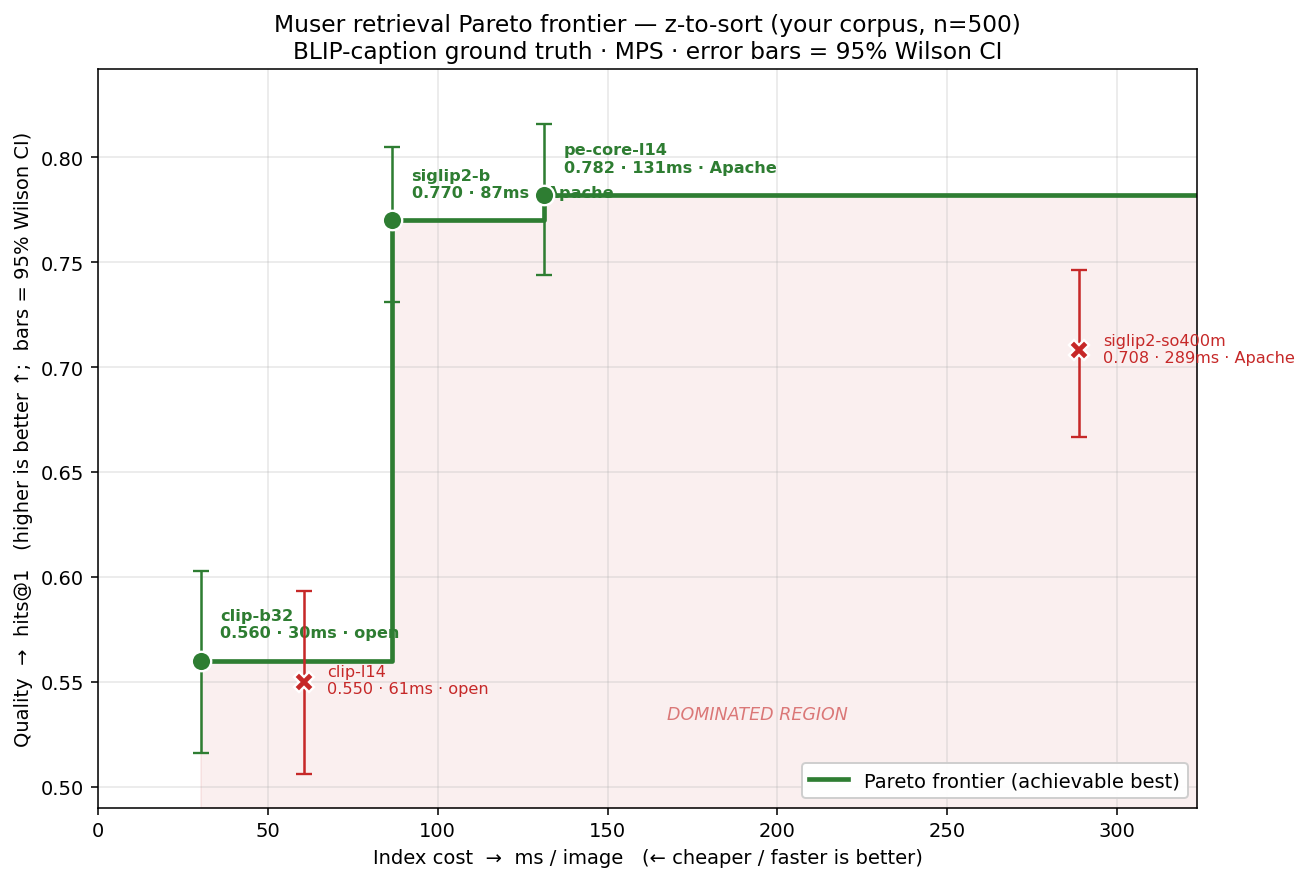
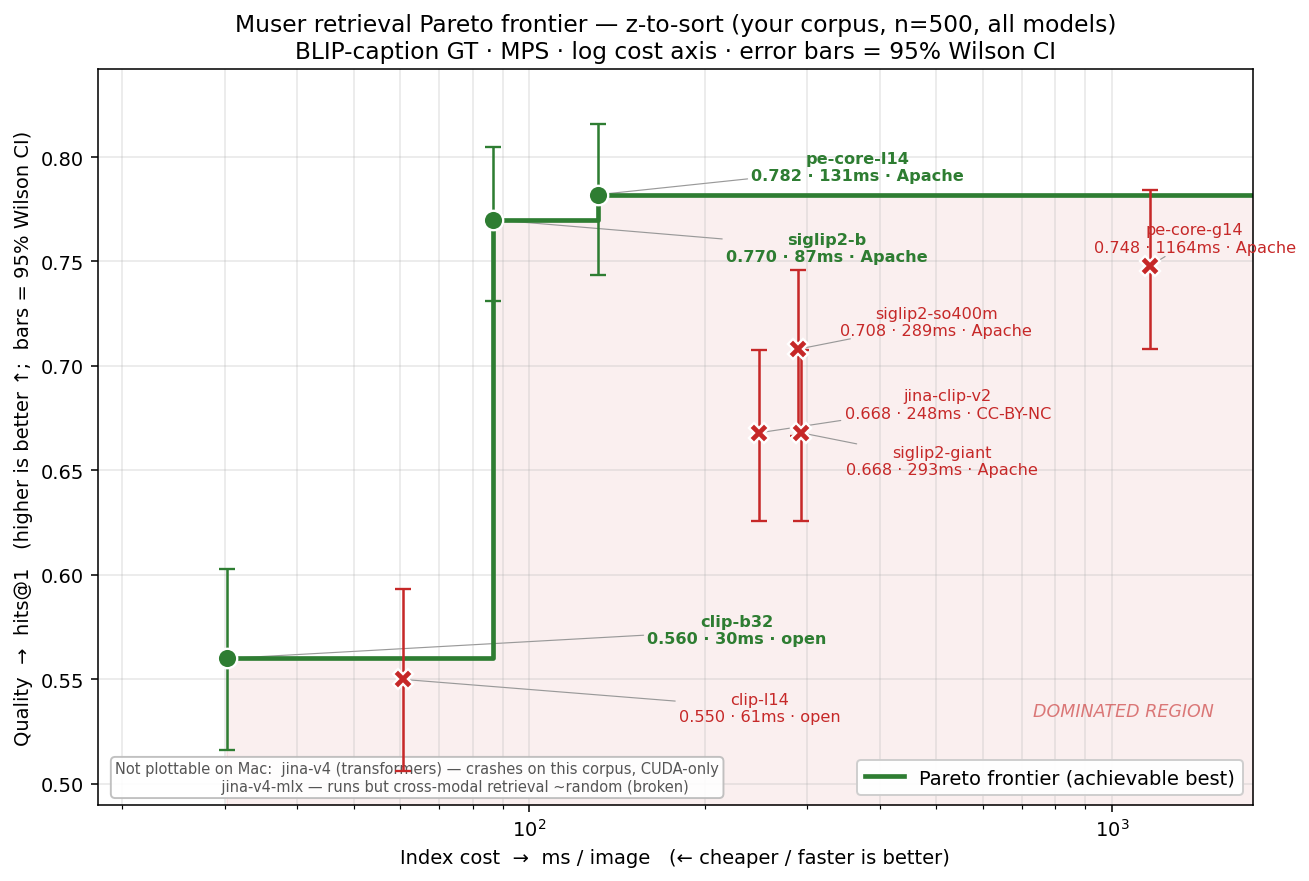
Plot all tested models on the z-to-sort frontier (incl. dominated giants/jina); log-x + adjustText labels
Ran pe-core-g14, siglip2-giant, jina-clip-v2 on the same n=500 domain eval so all 8
Mac-runnable models sit on one comparable axis. Diagram now shows every tested point
with the frontier (clip-b32/siglip2-b/pe-core-l14) and 5 dominated models in the
shaded region. Bigger models confirmed worse for retrieval: pe-core-g14 0.748 < l14
0.782 at 9x cost; siglip2-giant/jina-clip-v2 at 0.668. log-x cost axis, adjustText
label de-collision, off-chart note for the unplottable jina-v4/mlx.

diff --git a/eval/plot.py b/eval/plot.py
@@ -24,14 +24,15 @@ def _dominated(p, pts):
     )
 
 
-def pareto_plot(data: list[dict], title: str, outpath: str):
+def pareto_plot(data: list[dict], title: str, outpath: str, notes: str | None = None, logx: bool = False):
     import matplotlib
 
     matplotlib.use("Agg")
     import matplotlib.pyplot as plt
 
     front = sorted([p for p in data if not _dominated(p, data)], key=lambda p: p["ms_img"])
-    xmax = max(p["ms_img"] for p in data) * 1.12
+    xmax = max(p["ms_img"] for p in data) * (1.5 if logx else 1.12)
+    xmin = min(p["ms_img"] for p in data) * 0.6 if logx else 0
     ys = [p["hits1"] for p in data]
     ymin, ymax = min(ys) - 0.06, min(1.0, max(ys) + 0.06)
 
@@ -50,6 +51,7 @@ def pareto_plot(data: list[dict], title: str, outpath: str):
             color="#c62828", alpha=0.6, fontsize=9, style="italic", ha="center")
 
     names_front = {p["name"] for p in front}
+    texts = []
     for p in data:
         on = p["name"] in names_front
         lo, hi = wilson(p["hits1"], p["n"])
@@ -58,15 +60,25 @@ def pareto_plot(data: list[dict], title: str, outpath: str):
                     yerr=[[p["hits1"] - lo], [hi - p["hits1"]]],
                     fmt="o" if on else "X", color=c, ms=10, capsize=4,
                     elinewidth=1.3, zorder=5, markeredgecolor="white", markeredgewidth=1.2)
-        ax.annotate(f"{p['name']}\n{p['hits1']:.3f} · {p['ms_img']:.0f}ms · {p['lic']}",
-                    (p["ms_img"], p["hits1"]), textcoords="offset points",
-                    xytext=(10, 12) if on else (12, -6), fontsize=8.3,
-                    color=c, weight="bold" if on else "normal")
+        texts.append(ax.text(p["ms_img"], p["hits1"],
+                             f"{p['name']}\n{p['hits1']:.3f} · {p['ms_img']:.0f}ms · {p['lic']}",
+                             fontsize=8.3, color=c, weight="bold" if on else "normal"))
+    try:
+        from adjustText import adjust_text
+        adjust_text(texts, ax=ax, expand=(1.3, 1.6),
+                    arrowprops=dict(arrowstyle="-", color="#999", lw=0.6))
+    except Exception:
+        pass
 
     ax.set_xlabel("Index cost  →  ms / image   (← cheaper / faster is better)")
     ax.set_ylabel("Quality  →  hits@1   (higher is better ↑;  bars = 95% Wilson CI)")
     ax.set_title(title)
-    ax.set_xlim(0, xmax); ax.set_ylim(ymin, ymax); ax.grid(True, alpha=0.3)
+    if logx:
+        ax.set_xscale("log")
+    ax.set_xlim(xmin, xmax); ax.set_ylim(ymin, ymax); ax.grid(True, alpha=0.3, which="both")
     ax.legend(loc="lower right", framealpha=0.95)
+    if notes:
+        ax.text(0.015, 0.015, notes, transform=ax.transAxes, fontsize=7.5, color="#555",
+                va="bottom", ha="left", bbox=dict(boxstyle="round", fc="white", ec="#bbb", alpha=0.9))
     fig.tight_layout(); fig.savefig(outpath, bbox_inches="tight")
     return [p["name"] for p in front]

diff --git a/reports/2026-05-29-model-benchmark.md b/reports/2026-05-29-model-benchmark.md
@@ -38,13 +38,24 @@ holds. Error bars = 95% Wilson CI.
 
 ![Pareto frontier — z-to-sort](pareto-ztosort.png)
 
+All eight Mac-runnable models on the *same* n=500 eval (so they're comparable):
+
 | model | hits@1 | ndcg@10 | ms/img | license | frontier |
 |---|---|---|---|---|---|
 | pe-core-l14 | 0.782 | 0.881 | 131 | Apache | ✓ |
 | **siglip2-b** | 0.770 | 0.877 | 87 | Apache | ✓ best value |
+| pe-core-g14 (2B) | 0.748 | — | 1164 | Apache | ✗ dominated |
 | siglip2-so400m | 0.708 | 0.819 | 289 | Apache | ✗ dominated |
+| jina-clip-v2 | 0.668 | — | 248 | CC-BY-NC | ✗ dominated |
+| siglip2-giant (1.9B) | 0.668 | — | 293 | Apache | ✗ dominated |
 | clip-b32 | 0.560 | 0.714 | 30 | open | ✓ floor |
 | clip-l14 | 0.550 | 0.694 | 61 | open | ✗ dominated |
+
+The **giants confirm the rule that bigger ≠ better for retrieval**: pe-core-g14 (0.748)
+loses to its own L sibling (0.782) at 9× the cost; siglip2-giant (0.668) is far below
+siglip2-b. jina-clip-v2 (0.668) is dominated *and* non-commercial. (jina-v4 transformers
+crashes on this messy corpus / is CUDA-only; jina-v4-mlx runs but its cross-modal
+retrieval is ~random — neither gets a domain point.)
 
 **What domain eval changed vs. Flickr (why it was worth running):**
 - **pe-core-l14 ≈ siglip2-b — a statistical tie** here (0.782 vs 0.770, < 1 SE at
